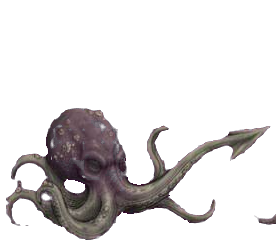
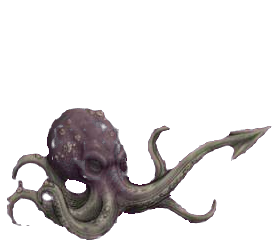
Fix Kraken attack frame crop

diff --git a/test_v2_motion.js b/test_v2_motion.js
@@ -336,6 +336,7 @@ for (const [motion, count] of Object.entries({ attack: 5, hit: 4, death: 6 })) {
   }
 }
 assert(krakenProcessor.includes("RemoveFinalSparkle"), "Kraken final Gemini cleanup is missing.");
+assert(krakenProcessor.includes("RemoveAttackNeighborArtifact"), "Kraken adjacent attack-frame cleanup is missing.");
 assert(krakenProcessor.includes("DrawImageUnscaled"), "Kraken frames must preserve source resolution.");
 
 assert(fs.existsSync(path.join(root, "art/v2-style/animation-sheets/green-raw/death-knight-animation-sheet.jpg")), "New raw Death Knight sheet is missing.");
@@ -365,7 +366,7 @@ assert(fs.existsSync(path.join(root, "art/v2-style/animation-sheets/green-raw/sk
 assert(fs.existsSync(path.join(root, "art/v2-style/animation-sheets/green-raw/sea-wolf-animation-sheet.jpg")), "New raw Sea Wolf sheet is missing.");
 assert(fs.existsSync(path.join(root, "art/v2-style/animation-sheets/green-raw/abyss-eye-animation-sheet.jpg")), "New raw Abyss Eye sheet is missing.");
 assert(fs.existsSync(path.join(root, "art/v2-style/animation-sheets/green-raw/kraken-animation-sheet.jpg")), "New raw Kraken sheet is missing.");
-assert(serviceWorker.includes("necromancer-expedition-v119"), "Service worker cache version was not bumped.");
+assert(serviceWorker.includes("necromancer-expedition-v120"), "Service worker cache version was not bumped.");
 assert(!serviceWorker.includes("animation-sheets/uploaded-raw"), "Deleted legacy animation sheets remain in offline cache.");
 assert(!serviceWorker.includes("animation-test-crops"), "Deleted comparison crops remain in offline cache.");
 for (const match of serviceWorker.matchAll(/^\s*"(\.\/[^"?]+)(?:\?[^\"]*)?"[,]?$/gm)) {

diff --git a/test_v2_auto_battle.js b/test_v2_auto_battle.js
@@ -60,7 +60,7 @@ for (const slug of ["death-knight", "skeleton-spear", "ghoul", "ancient-treant",
   }
 }
 
-assert(worker.includes('necromancer-expedition-v119'), "Service worker cache version was not advanced.");
+assert(worker.includes('necromancer-expedition-v120'), "Service worker cache version was not advanced.");
 assert(worker.includes("v2-auto-battle-practice.html"), "Auto battle page is not cached.");
 assert(worker.includes("v2-auto-battle-practice.js?v=7"), "Auto battle logic is not cached.");
 console.log("SUCCESS: landscape 4v4 speed auto-battle checks passed.");

diff --git a/service-worker.js b/service-worker.js
@@ -1,4 +1,4 @@
-const CACHE_NAME = "necromancer-expedition-v119";
+const CACHE_NAME = "necromancer-expedition-v120";
 const APP_SHELL = [
   "./",
   "./index.html",
